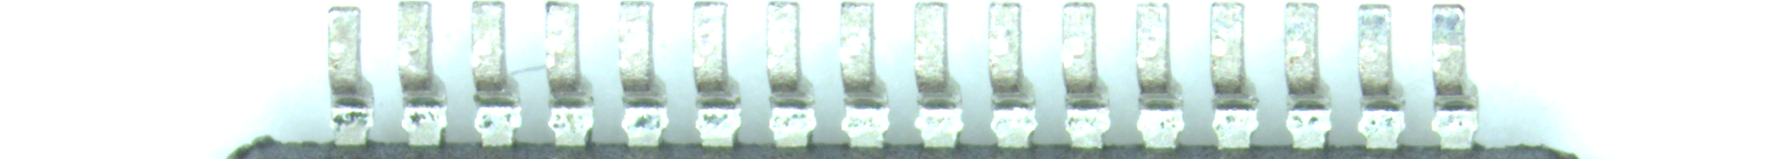
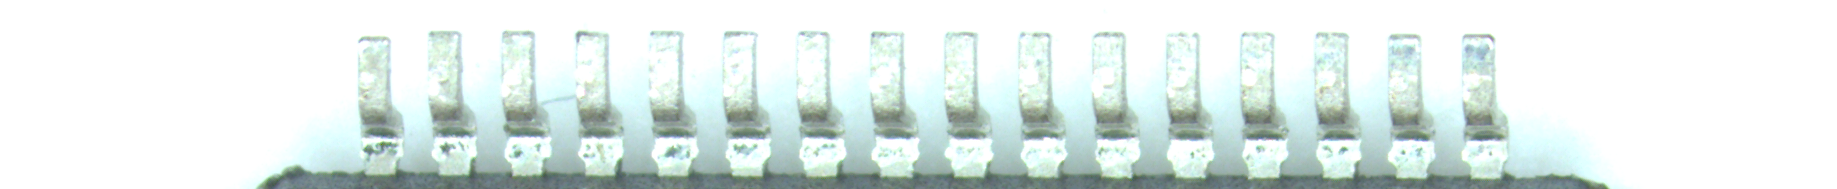
added padding

Changed region(s): [[0.1238, 0.0, 0.8976, 1.0], [0.7428, 0.9811, 0.7738, 1.0], [0.3095, 0.9811, 0.3405, 1.0]]

diff --git a/grayscale_converter.py b/grayscale_converter.py
@@ -83,6 +83,14 @@ def crop_pin_rows(input_path, output_dir="output"):
     outer_largest = max(outer_contours, key=cv2.contourArea)
     ox, oy, ow, oh = cv2.boundingRect(outer_largest)
     
+    # Add 20px padding to the outer box
+    padding = 30
+    image_height, image_width = image.shape[:2]
+    ox = max(0, ox - padding)
+    oy = max(0, oy - padding)
+    ow = min(image_width - ox, ow + 2 * padding)
+    oh = min(image_height - oy, oh + 2 * padding)
+    
     # Get base filename without extension
     base_name = os.path.splitext(os.path.basename(input_path))[0]
     
@@ -149,12 +157,14 @@ def detect_single_pin(input_path, output_path):
 
 if __name__ == "__main__":
     
-    input_path = 'pin2.png'
+    #input_path = 'pin2.png'
     #input_path = "Pin defect/A-D-64QFP-14B-SM.png"
     #input_path = "Pin defect/A-D-64QFP-15B-SM.png"
     #input_path = "Pin defect/A-J-28SOP-01B-SM.png"
     #input_path = "Pin defect/C-T-28SOP-04F-SM.png"
-    output_path = "pin2_detected.png"
-    #crop_pin_rows(input_path, output_dir="output")
+    #input_path = "IC marking/A-J-28SOP-03F-SM.png"
+    input_path = "IC marking/C-T-48QFP-20F-SM.png"
+    #output_path = "pin2_detected.png"
+    crop_pin_rows(input_path, output_dir="output")
     #convert_to_grayscale(input_path, output_path)
-    detect_single_pin(input_path, output_path)
+    #detect_single_pin(input_path, output_path)
